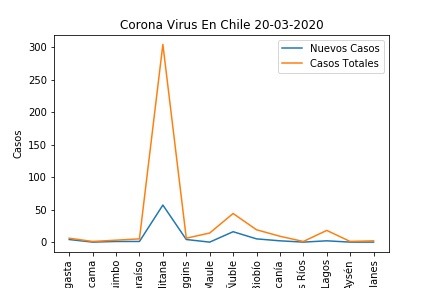
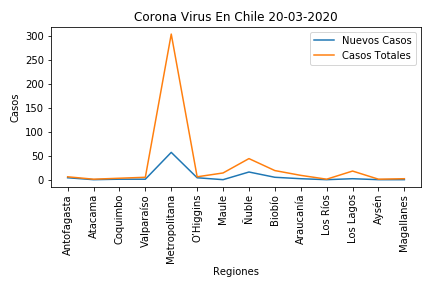
updating image

Changed region(s): [[0.0602, 0.0312, 0.9931, 1.0], [0.0301, 0.3125, 0.1204, 0.5625], [0.5718, 0.5312, 0.6019, 0.5625]]

diff --git a/corona.py b/corona.py
@@ -12,6 +12,7 @@ import pandas as pd
 import matplotlib.pyplot as plt
 import numpy as np
 import datetime
+import glob
 
 #URL to scrape data
 url = "https://www.minsal.cl/nuevo-coronavirus-2019-ncov/casos-confirmados-en-chile-covid-19/"
@@ -54,20 +55,32 @@ df['Casos Totales']= df['Casos Totales'].astype(float)
 df_plot =  df.iloc[2:16]
 
 
+img_file = datetime.date.today().strftime("%d-%m-%Y")
+
+
 #plotting New cases and all cases of Chile
 plt.plot(df_plot['Region'],df_plot['Nuevos Casos'], label = "Nuevos Casos")
 plt.plot(df_plot['Region'],df_plot['Casos Totales'], label = "Casos Totales")
 plt.ylabel('Casos')
-plt.title('Corona Virus En Chile')
+plt.title('Corona Virus En Chile 20-03-2020')
 plt.xlabel('Regiones')
 plt.xticks(rotation=90)
 plt.legend()
+plt.savefig(img_file)
 plt.show()
+
 
 #exporting dataframe to CSV with date
 
-filename = datetime.date.today().strftime("%d-%m-%Y")+'-''.csv'
+filename = datetime.date.today().strftime("%d-%m-%Y")+'-coronavirus-chile.csv'
 
 df.to_csv(filename)
 
+
+files = sorted(glob.glob('*-coronavirus-chile.csv'))
+
+Dates=[]
+rankscore = []
+for f in files:
+    print(f)
         
